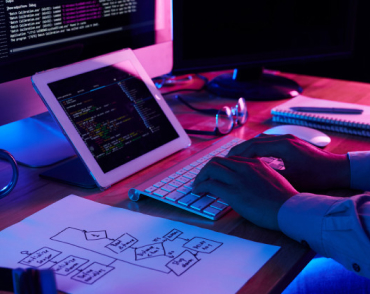
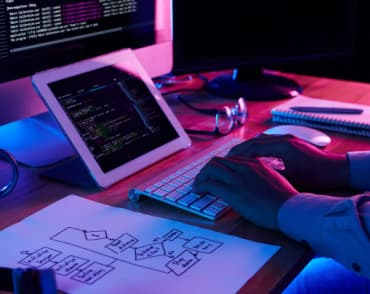
Добавлены отзывчивые изображения в секцию Works

diff --git a/index.html b/index.html
@@ -131,34 +131,44 @@
           <h2 class="woks-title section-title">Чем мы занимаемся</h2>
           <ul class="woks-title-list">
             <li class="works-link">
-              <img
+              <picture>
+                <source srcset="./images/what-are-we-doing/what-are-we-doing-1.jpg 1x, ./images/what-are-we-doing/what-are-we-doing-1-@2x.jpg 2x" media="(min-width: 1200px)"> 
+                <img               
                 src="./images/what-are-we-doing/what-are-we-doing-1.jpg"
                 alt="Сотрудник набирает на клавиатуре текст"
                 width="370"
                 height="294"
               />
-              <div class="text-works-box">
+              </picture>
+               <div class="text-works-box">
                 <p class="text-works">Десктопные приложения</p>
               </div>
             </li>
             <li class="works-link">
+              <picture>               
+              <source srcset="./images/what-are-we-doing/what-are-we-doing-2.jpg 1x, ./images/what-are-we-doing/what-are-we-doing-2-@2x.jpg 2x" media="(min-width: 1200px)">
               <img
                 src="./images/what-are-we-doing/what-are-we-doing-2.jpg"
                 alt="Сотрудник разрабатывает дизайн мобильного приложения"
                 width="370"
                 height="294"
               />
+              </picture>
               <div class="text-works-box">
                 <p class="text-works">Мобильные приложения</p>
               </div>
             </li>
             <li class="works-link">
+              <picture>
+                <source srcset="./images/what-are-we-doing/what-are-we-doing-3.jpg 1x,  
+                ./images/what-are-we-doing/what-are-we-doing-3-@2x.jpg 2x" media="(min-width: 1200px)">
               <img
                 src="./images/what-are-we-doing/what-are-we-doing-3.jpg"
                 alt="Сотрудник работает на планшете"
                 width="370"
                 height="294"
               />
+              </picture>
               <div class="text-works-box">
                 <p class="text-works">Дизайнерские решения</p>
               </div>
